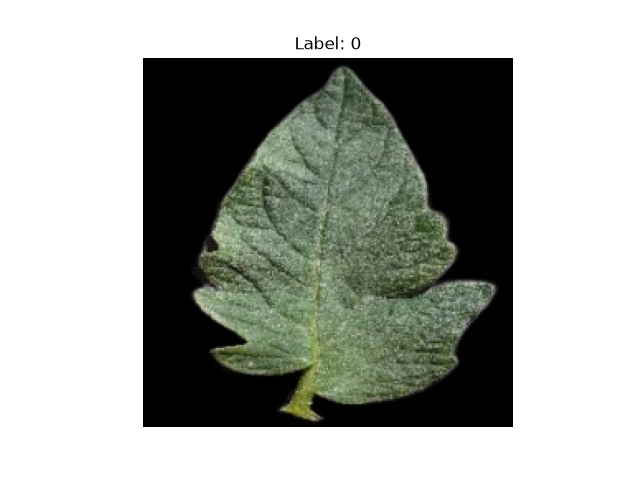
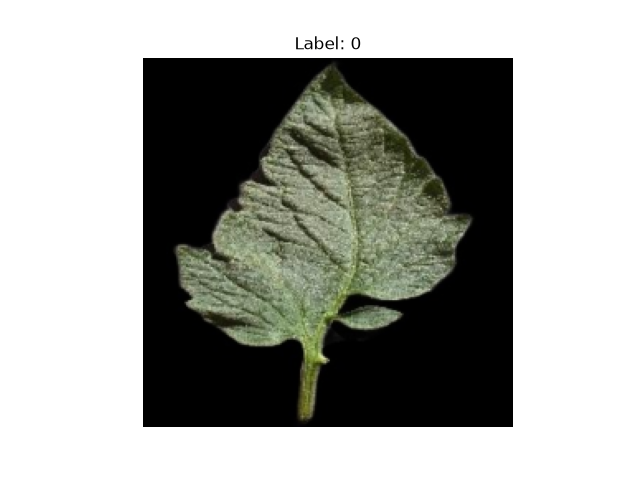
Add data augmentation pipeline

Changed region(s): [[0.25, 0.125, 0.7812, 0.875]]

diff --git a/src/visualize_augmentation.py b/src/visualize_augmentation.py
@@ -1,0 +1,69 @@
+import os
+import matplotlib.pyplot as plt
+from PIL import Image
+
+from transforms import train_transform
+
+
+# Pick one image from the training dataset
+image_path = None
+
+for class_name in ["early_blight", "healthy", "late_blight", "leaf_mold"]:
+    class_dir = os.path.join("data", "train", class_name)
+
+    if os.path.exists(class_dir):
+        files = [
+            f for f in os.listdir(class_dir)
+            if f.lower().endswith((".jpg", ".jpeg", ".png"))
+        ]
+
+        if files:
+            image_path = os.path.join(class_dir, files[0])
+            break
+
+
+if image_path is None:
+    raise FileNotFoundError("No image found in data/train")
+
+
+# Load original image
+image = Image.open(image_path).convert("RGB")
+
+
+# Generate 8 augmented versions
+augmented_images = []
+
+for _ in range(8):
+    augmented = train_transform(image)
+
+    # Undo normalization for visualization
+    mean = augmented.new_tensor([0.485, 0.456, 0.406]).view(3, 1, 1)
+    std = augmented.new_tensor([0.229, 0.224, 0.225]).view(3, 1, 1)
+
+    augmented = augmented * std + mean
+    augmented = augmented.clamp(0, 1)
+
+    augmented_images.append(augmented.permute(1, 2, 0).numpy())
+
+
+# Create 2 x 4 grid
+fig, axes = plt.subplots(2, 4, figsize=(12, 6))
+
+for ax, img in zip(axes.flat, augmented_images):
+    ax.imshow(img)
+    ax.axis("off")
+
+plt.suptitle("Data Augmentation Samples")
+
+os.makedirs("reports", exist_ok=True)
+
+plt.tight_layout()
+plt.savefig(
+    "reports/augmentation_samples.png",
+    dpi=150,
+    bbox_inches="tight"
+)
+
+plt.close()
+
+print("Augmentation samples saved to reports/augmentation_samples.png")

diff --git a/src/transforms.py b/src/transforms.py
@@ -1,0 +1,22 @@
+from torchvision import transforms
+
+IMAGENET_MEAN = [0.485, 0.456, 0.406]
+IMAGENET_STD = [0.229, 0.224, 0.225]
+
+train_transform = transforms.Compose([
+    transforms.Resize((256, 256)),
+    transforms.RandomResizedCrop(224, scale=(0.8, 1.0)),
+    transforms.RandomHorizontalFlip(p=0.5),
+    transforms.RandomRotation(degrees=15),
+    transforms.ColorJitter(brightness=0.2, contrast=0.2, saturation=0.1),
+    transforms.ToTensor(),
+    transforms.Normalize(IMAGENET_MEAN, IMAGENET_STD),
+])
+
+val_transform = transforms.Compose([
+    transforms.Resize((224, 224)),
+    transforms.ToTensor(),
+    transforms.Normalize(IMAGENET_MEAN, IMAGENET_STD),
+])
+
+# Pass train_transform to LeafDiseaseDataset("data/train", ...)

diff --git a/src/train.py b/src/train.py
@@ -1,3 +1,4 @@
+from transforms import train_transform,val_transform
 import copy
 from pathlib import Path
 
@@ -29,12 +30,12 @@ print("Device:", device)
 
 train_ds = LeafDiseaseDataset(
     "data/train",
-    transform=transform
+    transform=train_transform
 )
 
 val_ds = LeafDiseaseDataset(
     "data/val",
-    transform=transform
+    transform=val_transform
 )
 
 
@@ -181,7 +182,7 @@ def validate(
 # 9. TRAINING SETTINGS
 # --------------------------------------------------
 
-num_epochs = 50
+num_epochs = 25
 
 patience = 3
 

diff --git a/reports/augmentation_notes.md b/reports/augmentation_notes.md
@@ -1,0 +1,33 @@
+# Data Augmentation Notes
+
+## Training Augmentations
+
+The training pipeline uses the following transformations:
+
+- Resize to 256 × 256 pixels
+- RandomResizedCrop to 224 × 224 pixels
+- RandomHorizontalFlip
+- RandomRotation up to ±15 degrees
+- ColorJitter for brightness, contrast, and saturation
+- Conversion to PyTorch tensor
+- ImageNet normalization
+
+## Validation Transformations
+
+Validation images are not randomly augmented. They are only:
+
+- Resized to 224 × 224 pixels
+- Converted to tensors
+- Normalized using ImageNet mean and standard deviation
+
+## Label-Safe Transformations
+
+The selected transformations are considered label-safe for plant leaf disease classification because they change the viewing conditions without changing the disease category.
+
+Horizontal flipping, small rotations, moderate crops, and moderate brightness/contrast/saturation changes preserve the disease characteristics visible on the leaf.
+
+Large rotations, extreme crops, or transformations that remove disease symptoms should be avoided because they may make the image unrealistic or remove important disease features.
+
+## Reason for Augmentation
+
+Data augmentation increases the diversity of training examples and helps the CNN generalize to leaves captured under different camera angles, distances, and lighting conditions. It can also reduce overfitting to the training dataset.

diff --git a/README.md b/README.md
@@ -53,6 +53,24 @@ The CNN was trained using an 80/20 train-validation split.
 - Device: CPU
 - Early stopping patience: 3 epochs
 - Epochs completed: 31
-- Best validation accuracy: 0.9400
+- Best validation accuracy: 0.8725
 - Best model: `models/leaf_cnn_best.pth`
 - Training curves: `reports/training_curves.png`
+
+## Data Augmentation
+
+Data augmentation was introduced using torchvision.transforms.
+
+Training images were augmented using random resized cropping,
+horizontal flipping, rotation, and moderate color changes.
+
+Validation images were not randomly augmented so that validation
+performance remained consistent.
+
+The augmentation visualization is available at:
+
+`reports/augmentation_samples.png`
+
+The training and validation results are available at:
+
+`reports/training_curves.png`
